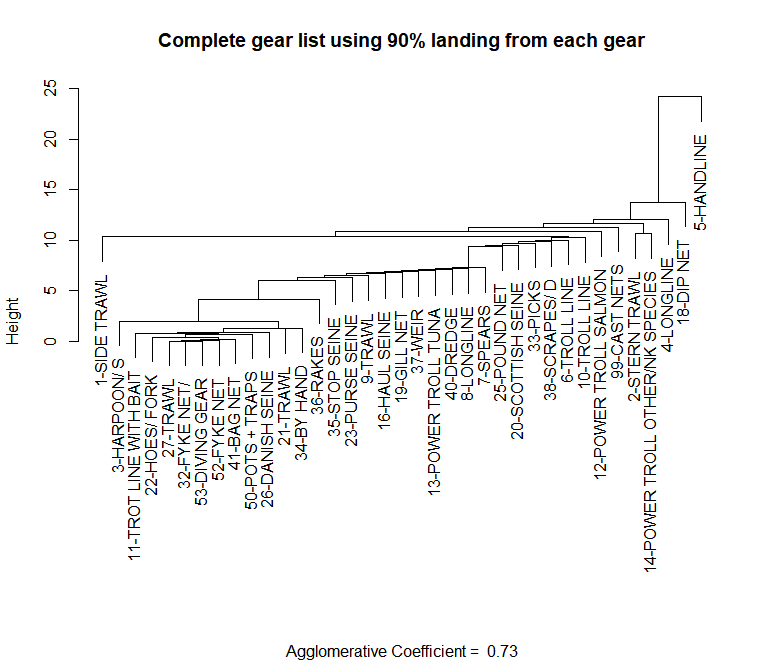
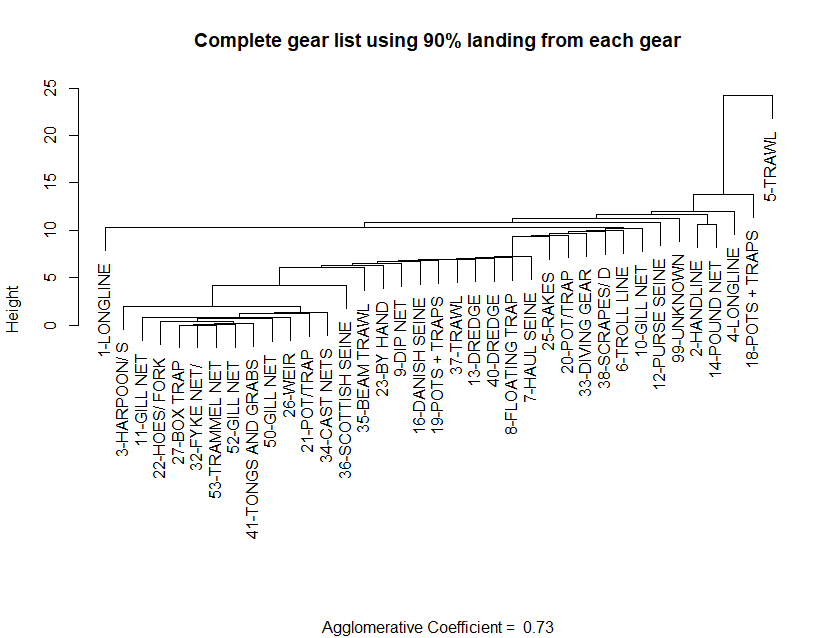
bug fix: labels not matching gear types in dendrogram plot

diff --git a/docs/GBFleetDefinitions.html b/docs/GBFleetDefinitions.html
@@ -3036,14 +3036,14 @@ summary {
 
 <h1 class="title toc-ignore">Fleet Definitions</h1>
 <h4 class="author">Andy Beet</h4>
-<h4 class="date">26 February, 2021</h4>
+<h4 class="date">01 March, 2021</h4>
 
 </div>
 
 
 <p>There are a total of 52 unique NEGEAR2 codes (found in the cfdbs.gear table). However on Georges Bank not all of these fishing gears are used. A subset of 37 gear types are used. A list of these codes follow</p>
-<div id="htmlwidget-0b161aa158ad85e01524" style="width:100%;height:auto;" class="datatables html-widget"></div>
-<script type="application/json" data-for="htmlwidget-0b161aa158ad85e01524">{"x":{"filter":"none","data":[["01","02","02","03","03","03","03","04","05","05","05","05","05","05","05","05","05","05","06","06","06","06","06","06","06","06","07","07","08","09","09","09","10","10","10","10","10","10","11","11","11","11","11","11","11","11","12","12","12","12","12","13","13","14","14","14","14","16","18","18","18","18","18","18","18","19","20","20","20","20","20","20","20","20","21","21","21","21","21","21","21","21","22","22","22","22","23","23","25","25","26","27","32","32","32","32","32","33","33","33","33","34","35","35","35","35","36","37","38","38","38","38","38","38","38","38","40","41","41","41","41","41","50","52","53","99"],["LONGLINE, BOTTOM","HANDLINE","HANDLINE,AUTO JIG","HARPOON,OTHER/NK SPECIES","HARPOON,SWORDFISH","HARPOON,TURTLE","SPEARS","LONGLINE, PELAGIC","TRAWL,OTTER,BOTTOM,FISH","TRAWL,OTTER,BOTTOM,CRAB","TRAWL,OTTER,BOTTOM,SCALLOP","TRAWL,OTTER,BOTTOM,TWIN","TRAWL,OTTER,BOTTOM,RUHLE","TRAWL,OTTER,BOTTOM,LOBSTER","TRAWL,OTTER,BOTTOM PAIRED","TRAWL,OTTER,BOTTOM,HADDOCK SEPARATOR","TRAWL,OTTER,BOTTOM,SHRIMP","TRAWL,OTTER,BOTTOM,OTHER/NK SPECIES","TROLL LINE, OTHER/NK SPECIES","TROLL LINE, TUNA","TROT LINE WITH BAIT","POWER TROLL SALMON","POWER TROLL TUNA","POWER TROLL OTHER/NK SPECIES","TROLL &amp; HANDLINE, COMBINED","TROLL LINE, GREEN-STICK","HAUL SEINE, BEACH, COMMON","HAUL SEINE, LONG","FLOATING TRAP","DIP NET, COMMON","DIP NET, DROP NET","DIP NET, PUSH NET","GILL NET, FIXED OR ANCHORED,SINK, OTHER/NK SPECIES","GILL NET,SET /STAKE, SEA BASS","GILL NET,STAKE,OTHER","GILL NET,SET, SALMON","GILL NET,SET, CRAB","GILL NET,ANCHORED-FLOATING, FISH","GILL NET,DRIFT, OTHER/NK SPECIES","GILL NET,DRIFT, SEA BASS","GILL NET,DRIFT, SHAD","GILL NET,DRIFT, SALMON","GILL NET,DRIFT, BARRACUDA","GILL NET,DRIFT, LARGE PELAGIC","GILL NET,DRIFT-FLOATING, FISH","GILL NET,DRIFT-SINK, FISH","PURSE SEINE, OTHER/NK SPECIES","PURSE SEINE, HERRING","PURSE SEINE, MACKEREL","PURSE SEINE, MENHADEN","PURSE SEINE, TUNA","DREDGE, SCALLOP,BAY","DREDGE, SCALLOP,SEA","POUND NET, OTHER/NK SPECIES","POUND NET, CRAB","POUND NET, FISH","POUND NET, HORSESHOE CRAB","DANISH SEINE","POTS + TRAPS,OTHER/NK SPECIES","POTS + TRAPS,FISH","POTS + TRAPS,EEL","POTS + TRAPS,CONCH","POTS + TRAPS,OCTOPUS","POTS + TRAPS,TURTLE","POTS + TRAPS, HAGFISH","POTS + TRAPS,SHRIMP","POT/TRAP, LOBSTER OFFSH NK","POT/TRAP, LOBSTER OFFSH WOOD","POT/TRAP, LOBSTER OFFSH WIRE","POT/TRAP, LOBSTER OFFSH WD/WR","POT/TRAP, LOBSTER OFFSH WD/NET","POT/TRAP, LOBSTER OFFSH WR/NET","POT/TRAP, LOBSTER OFFSH PLASTIC","POT/TRAP, LOBSTER OFFSH CONICAL","POT/TRAP, LOBSTER INSH NK","POT/TRAP, LOBSTER INSH WOOD","POT/TRAP, LOBSTER INSH WIRE","POT/TRAP, LOBSTER INSH WD/WR","POT/TRAP, LOBSTER INSH WD/NET","POT/TRAP, LOBSTER INSH WR/NET","POT/TRAP, LOBSTER INSH PLASTIC","POT/TRAP, LOBSTER INSH CONICAL","HOES","FORKS","SHOVELS","PICKS","BY HAND, OTHER/NK SPECIES","BY HAND, OYSTERS","RAKES, OTHER/NK SPECIES","RAKES, OYSTER","WEIR","BOX TRAP","FYKE NET, OTHER/NK SPECIES","FYKE NET, CRAB","FYKE NET, FISH","FYKE NET, TURTLE","HOOP NET","DIVING GEAR","DIVING GEAR, SCALLOP","DIVING GEAR, URCHIN","DIVING GEAR,SUCTION PUMP,HAND","CAST NETS","BEAM TRAWL, OTHER/NK SPECIES","BEAM TRAWL, SHRIMP","BEAM TRAWL,SCALLOP","BEAM TRAWL,FISH","SCOTTISH SEINE","TRAWL,OTTER,MIDWATER","SCRAPES","DREDGE, OTHER/NK SPECIES","DREDGE, CLAM","DREDGE, CRAB","DREDGE, CONCH","DREDGE, MUSSEL","DREDGE, CLAM, HYDRAULIC","DREDGE, URCHIN","DREDGE, SURF CLAM + OCEAN QUAHO","TONGS AND GRABS, OTHER/NK SPECIES","TONGS AND GRABS, CLAM","TONGS AND GRABS, OYSTER","TONGS AND GRABS, CLAM,PATEN","TONGS AND GRABS,OYSTER,PATEN","GILL NET,RUNAROUND","GILL NET,OTHER","TRAMMEL NET","UNKNOWN"]],"container":"<table class=\"display\">\n  <thead>\n    <tr>\n      <th>NEGEAR2<\/th>\n      <th>GEARNM<\/th>\n    <\/tr>\n  <\/thead>\n<\/table>","options":{"pageLength":10,"order":[[0,"asc"]],"autoWidth":false,"orderClasses":false}},"evals":[],"jsHooks":[]}</script>
+<div id="htmlwidget-9cd1aadc14c90b7ec64a" style="width:100%;height:auto;" class="datatables html-widget"></div>
+<script type="application/json" data-for="htmlwidget-9cd1aadc14c90b7ec64a">{"x":{"filter":"none","data":[["01","02","02","03","03","03","03","04","05","05","05","05","05","05","05","05","05","05","06","06","06","06","06","06","06","06","07","07","08","09","09","09","10","10","10","10","10","10","11","11","11","11","11","11","11","11","12","12","12","12","12","13","13","14","14","14","14","16","18","18","18","18","18","18","18","19","20","20","20","20","20","20","20","20","21","21","21","21","21","21","21","21","22","22","22","22","23","23","25","25","26","27","32","32","32","32","32","33","33","33","33","34","35","35","35","35","36","37","38","38","38","38","38","38","38","38","40","41","41","41","41","41","50","52","53","99"],["LONGLINE, BOTTOM","HANDLINE","HANDLINE,AUTO JIG","HARPOON,OTHER/NK SPECIES","HARPOON,SWORDFISH","HARPOON,TURTLE","SPEARS","LONGLINE, PELAGIC","TRAWL,OTTER,BOTTOM,FISH","TRAWL,OTTER,BOTTOM,CRAB","TRAWL,OTTER,BOTTOM,SCALLOP","TRAWL,OTTER,BOTTOM,TWIN","TRAWL,OTTER,BOTTOM,RUHLE","TRAWL,OTTER,BOTTOM,LOBSTER","TRAWL,OTTER,BOTTOM PAIRED","TRAWL,OTTER,BOTTOM,HADDOCK SEPARATOR","TRAWL,OTTER,BOTTOM,SHRIMP","TRAWL,OTTER,BOTTOM,OTHER/NK SPECIES","TROLL LINE, OTHER/NK SPECIES","TROLL LINE, TUNA","TROT LINE WITH BAIT","POWER TROLL SALMON","POWER TROLL TUNA","POWER TROLL OTHER/NK SPECIES","TROLL &amp; HANDLINE, COMBINED","TROLL LINE, GREEN-STICK","HAUL SEINE, BEACH, COMMON","HAUL SEINE, LONG","FLOATING TRAP","DIP NET, COMMON","DIP NET, DROP NET","DIP NET, PUSH NET","GILL NET, FIXED OR ANCHORED,SINK, OTHER/NK SPECIES","GILL NET,SET /STAKE, SEA BASS","GILL NET,STAKE,OTHER","GILL NET,SET, SALMON","GILL NET,SET, CRAB","GILL NET,ANCHORED-FLOATING, FISH","GILL NET,DRIFT, OTHER/NK SPECIES","GILL NET,DRIFT, SEA BASS","GILL NET,DRIFT, SHAD","GILL NET,DRIFT, SALMON","GILL NET,DRIFT, BARRACUDA","GILL NET,DRIFT, LARGE PELAGIC","GILL NET,DRIFT-FLOATING, FISH","GILL NET,DRIFT-SINK, FISH","PURSE SEINE, OTHER/NK SPECIES","PURSE SEINE, HERRING","PURSE SEINE, MACKEREL","PURSE SEINE, MENHADEN","PURSE SEINE, TUNA","DREDGE, SCALLOP,BAY","DREDGE, SCALLOP,SEA","POUND NET, OTHER/NK SPECIES","POUND NET, CRAB","POUND NET, FISH","POUND NET, HORSESHOE CRAB","DANISH SEINE","POTS + TRAPS,OTHER/NK SPECIES","POTS + TRAPS,FISH","POTS + TRAPS,EEL","POTS + TRAPS,CONCH","POTS + TRAPS,OCTOPUS","POTS + TRAPS,TURTLE","POTS + TRAPS, HAGFISH","POTS + TRAPS,SHRIMP","POT/TRAP, LOBSTER OFFSH NK","POT/TRAP, LOBSTER OFFSH WOOD","POT/TRAP, LOBSTER OFFSH WIRE","POT/TRAP, LOBSTER OFFSH WD/WR","POT/TRAP, LOBSTER OFFSH WD/NET","POT/TRAP, LOBSTER OFFSH WR/NET","POT/TRAP, LOBSTER OFFSH PLASTIC","POT/TRAP, LOBSTER OFFSH CONICAL","POT/TRAP, LOBSTER INSH NK","POT/TRAP, LOBSTER INSH WOOD","POT/TRAP, LOBSTER INSH WIRE","POT/TRAP, LOBSTER INSH WD/WR","POT/TRAP, LOBSTER INSH WD/NET","POT/TRAP, LOBSTER INSH WR/NET","POT/TRAP, LOBSTER INSH PLASTIC","POT/TRAP, LOBSTER INSH CONICAL","HOES","FORKS","SHOVELS","PICKS","BY HAND, OTHER/NK SPECIES","BY HAND, OYSTERS","RAKES, OTHER/NK SPECIES","RAKES, OYSTER","WEIR","BOX TRAP","FYKE NET, OTHER/NK SPECIES","FYKE NET, CRAB","FYKE NET, FISH","FYKE NET, TURTLE","HOOP NET","DIVING GEAR","DIVING GEAR, SCALLOP","DIVING GEAR, URCHIN","DIVING GEAR,SUCTION PUMP,HAND","CAST NETS","BEAM TRAWL, OTHER/NK SPECIES","BEAM TRAWL, SHRIMP","BEAM TRAWL,SCALLOP","BEAM TRAWL,FISH","SCOTTISH SEINE","TRAWL,OTTER,MIDWATER","SCRAPES","DREDGE, OTHER/NK SPECIES","DREDGE, CLAM","DREDGE, CRAB","DREDGE, CONCH","DREDGE, MUSSEL","DREDGE, CLAM, HYDRAULIC","DREDGE, URCHIN","DREDGE, SURF CLAM + OCEAN QUAHO","TONGS AND GRABS, OTHER/NK SPECIES","TONGS AND GRABS, CLAM","TONGS AND GRABS, OYSTER","TONGS AND GRABS, CLAM,PATEN","TONGS AND GRABS,OYSTER,PATEN","GILL NET,RUNAROUND","GILL NET,OTHER","TRAMMEL NET","UNKNOWN"]],"container":"<table class=\"display\">\n  <thead>\n    <tr>\n      <th>NEGEAR2<\/th>\n      <th>GEARNM<\/th>\n    <\/tr>\n  <\/thead>\n<\/table>","options":{"pageLength":10,"order":[[0,"asc"]],"autoWidth":false,"orderClasses":false}},"evals":[],"jsHooks":[]}</script>
 <div id="aggregating-gear-types" class="section level2">
 <h2>Aggregating Gear Types</h2>
 <p>Each gear type is designed to target particular species. Some gear types may catch predominantly one species (eg. Lobsters traps) where others may catch multiple species (bottom trawls). We aim to aggregate the gear types into fleets using similarities in the catch among the gear types. To achieve this we will adopt an agglomerative hierarchical, nearest neighbor clustering method (<span class="citation"><a href="#ref-manly2017" role="doc-biblioref">Manly</a> (<a href="#ref-manly2017" role="doc-biblioref">2017</a>)</span>) using euclidean distance as the measure of distance between groups. In this approach all gear types begin in separate groups. Groups that are similar (similar catch, defined by a distance mesaure) are then merged until at some distance all gear types belong to a single group. The variables used to determine the grouping are the species caught, measured by landings (in lbs)</p>
@@ -3059,11 +3059,12 @@ where <span class="math inline">\(x_{i,k}\)</span> is the landings of species <s
 plot(clusterObj,ask=T,which.plots=2,main=&quot;Complete gear list using 90% landing from each gear&quot;,xlab=&quot;&quot;)</code></pre>
 <pre class="r"><code>knitr::include_graphics(&quot;figures/dendrogram1.png&quot;)</code></pre>
 <div class="figure"><span id="fig:dendro1"></span>
[2 lines of base64/hex data omitted]
 <p class="caption">
 Figure 1: The denrogram obtained from a nearest-neighbor, hierarchical cluster analysis on all gears used in the Georges Bank Ecological Production unit defined by statistical areas
 </p>
 </div>
+<p>Note: Low values of the agglomerative coefficient indicate tight clustering of gears types. Larger values indicate less well formed clusters.</p>
 </div>
 <div id="references" class="section level2 unnumbered">
 <h2>References</h2>
